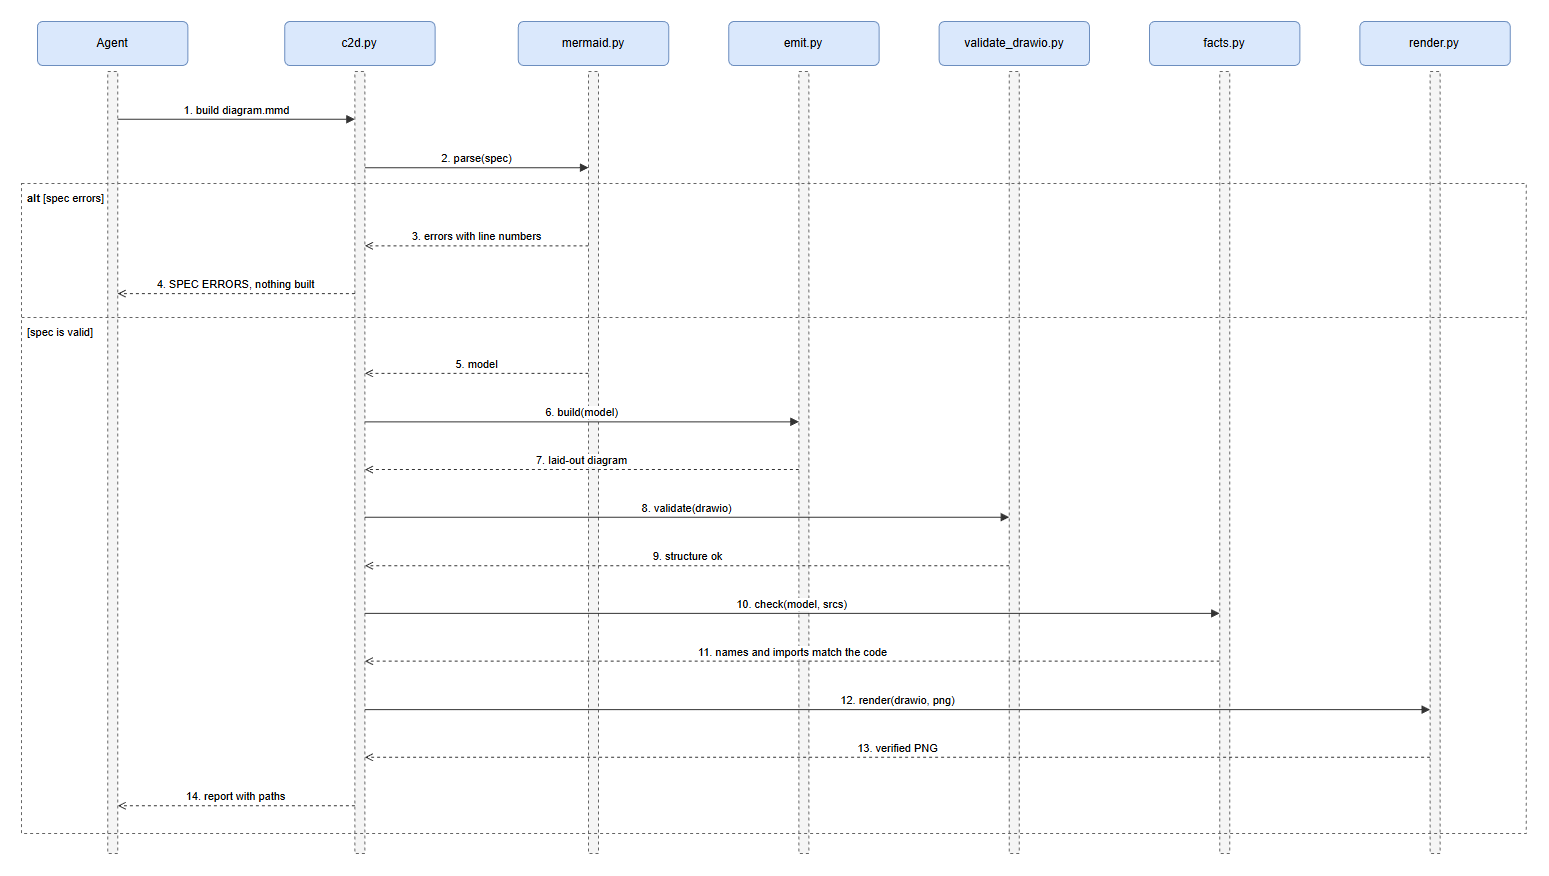
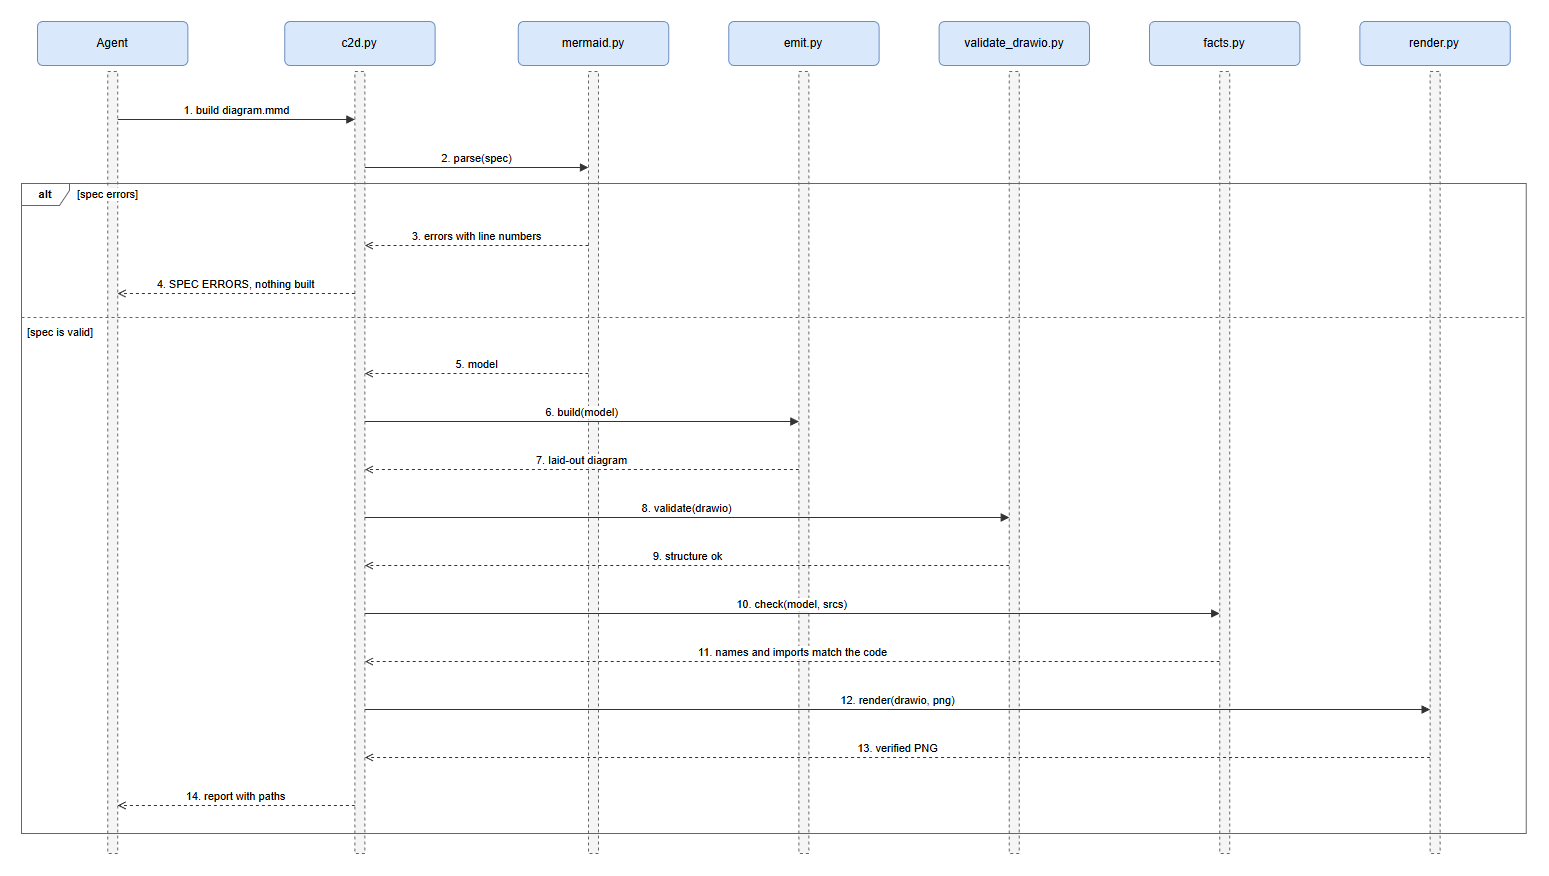
feat(sequence): group each header with its lifeline, draw fragments as umlFrame, report the layout (Fixes #15) (#30)
Sequence diagrams were hard to edit and, unlike every other type, were not
measured.

- A participant's header box and lifeline are children of one group, so
  they move together in draw.io. Messages stay glued to the lifelines.
- alt/opt/loop/par/critical/break are umlFrame shapes with the kind in the
  tab and the condition as a text beside it (it was a rectangle plus a
  text box). A highlight (rect) stays a plain dashed rectangle. The
  condition text gets a white background so a lifeline behind it does not
  strike through it.
- build prints a layout: line for sequences: texts (message labels, notes,
  frame conditions) lying on one another or on a message line, and notes
  hiding the lifeline of a participant they do not name. It reuses the
  rectangle test of labels.py and label_cost of metrics.py.
- digest skips the invisible groups, so each participant is still listed
  once.
- The shipped build-pipeline example is rebuilt, so its image shows the
  UML frame.

Not changed: messages still attach at a fraction of the lifeline height, so
inserting a message in draw.io still means moving the arrows below it.

Covered by selftest: grouping, frame shapes and tabs, the condition texts,
a clean build, a note across another lifeline, the clash counter on
synthetic rectangles, the shipped example, and the digest.

Changed region(s): [[0.0, 0.2158, 0.093, 0.2466]]

diff --git a/skills/code-to-diagram/scripts/sequence.py b/skills/code-to-diagram/scripts/sequence.py
@@ -1,22 +1,36 @@
-"""Sequence diagrams: participants with lifelines, messages in time order, notes, alt/opt/loop frames.
+"""Sequence diagrams: participants with lifelines, messages in time order, notes, alt/opt/loop/break frames.
 
-Lifelines are thin, equally tall rectangles; message k leaves and enters at the fraction (y_k - top) / height of that
-height on both ends, which keeps every arrow exactly horizontal. (shape=umlLifeline is a container with special child
-behaviour and breaks when edited, so it is not used.)
+Lifelines are thin, equally tall rectangles, grouped with their header box so that the two move together; message k
+leaves and enters at the fraction (y_k - top) / height of that height on both ends, which keeps every arrow exactly
+horizontal. (shape=umlLifeline is a container with special child behaviour and breaks when edited, so it is not used.)
+Frames are umlFrame shapes, the condition a text beside the tab. build measures the result (model.sequence_report):
+texts lying on texts or on messages, notes hiding a lifeline.
 """
 import html
 
 from drawio_lib import Diagram, Html, wrap_lines, text_width
+from labels import _overlap
+from metrics import label_cost
 
 M = 40                  # page margin
 BOX_H = 44
 TITLE_H = 40            # heading above the participants
 STEP = 48               # vertical space one message takes
 CHAR_W = 6.8            # message and note text is 11 px
+LABEL_W = 5.2           # width per character of a message label as drawn, for measuring (CHAR_W leaves room to spare)
+SLACK = 3               # two texts that overlap by less than this many px per side still read as apart
 
 
 def _text_w(text):
     return text_width(text, CHAR_W)
+
+
+def clashes(texts, lines):
+    """How many of the texts [(rect (x, y, w, h), key of the message line it belongs to or None)] lie on another text or on the
+    line of a message that is not theirs. Lines: {key: polyline}."""
+    small = [(x + SLACK, y + SLACK, w - 2 * SLACK, h - 2 * SLACK) for (x, y, w, h), _ in texts]
+    return sum(1 for i, ((_, own), r) in enumerate(zip(texts, small))
+               if any(_overlap(r, o) for j, o in enumerate(small) if j != i) or label_cost(r, own, lines, []))
 
 
 def build(model):
@@ -106,28 +120,42 @@ def build(model):
     shift = M - left_most if left_most < M else 0
     cx = [c + shift for c in cx]
 
+    texts, lines = [], {}                                          # what build measures: text rectangles, message polylines
     for i, (pid, label, actor) in enumerate(parts):
-        d.box(f"seq-hd-{pid}", label, cx[i] - box_w / 2, head_y, box_w, BOX_H, "rounded", "purple" if actor else "blue")
-        d.box(f"seq-ll-{pid}", "", cx[i] - 5, top, 10, height, "rect", "gray", style="dashed=1;")
+        g = d.group(f"seq-p-{pid}", cx[i] - box_w / 2, head_y, box_w, top + height - head_y)
+        d.box(f"seq-hd-{pid}", label, 0, 0, box_w, BOX_H, "rounded", "purple" if actor else "blue", parent=g)
+        d.box(f"seq-ll-{pid}", "", box_w / 2 - 5, top - head_y, 10, height, "rect", "gray", parent=g, style="dashed=1;")
     for k, fr in enumerate(frames):
         a, b = min(fr["span"], default=0), max(fr["span"], default=len(parts) - 1)
         inset = 12 * fr["depth"]
         x0, x1 = cx[a] - box_w / 2 - 16 + inset, cx[b] + box_w / 2 + 16 - inset
         x1 = max([x1] + [cx[i] + 40 + text_width(t, 5.2) + 40 - inset for i, t in fr["selfs"]])
         y0, y1 = ys[fr["start"]] - 4, ys[fr["end"]] + 6
-        d.box(f"seq-fr{k}", "", x0, y0, x1 - x0, y1 - y0, "rect", "white", style="dashed=1;fillColor=none;")
-        tag = Html(f"<b>{html.escape(fr['kind'])}</b>" + (f" [{html.escape(fr['text'])}]" if fr["text"] else "")) if fr["kind"] else None
-        if tag:
-            d.box(f"seq-fr{k}-tag", tag, x0 + 4, y0 + 2, min(300, x1 - x0 - 8), 22, "text", font=11)
+        if fr["kind"]:                                              # a UML fragment: the kind in the tab, the condition beside it
+            tab = text_width(fr["kind"], 8) + 24
+            d.box(f"seq-fr{k}", fr["kind"], x0, y0, x1 - x0, y1 - y0, "frame", font=11, style=f"width={tab:.0f};height=22;")
+            texts.append(((x0, y0, tab, 22), None))
+            if fr["text"]:
+                d.box(f"seq-fr{k}-tag", Html(f"[{html.escape(fr['text'])}]"), x0 + tab + 6, y0 - 2, min(300, x1 - x0 - tab - 12), 20, "text", font=11,
+                      style="labelBackgroundColor=#ffffff;")           # in line with the tab's text, and over any lifeline it crosses
+                texts.append(((x0 + tab + 6, y0 + 1, text_width(f"[{fr['text']}]", LABEL_W) + 4, 16), None))
+        else:                                                       # a highlight (`rect`), not a fragment
+            d.box(f"seq-fr{k}", "", x0, y0, x1 - x0, y1 - y0, "rect", "white", style="dashed=1;fillColor=none;")
         for j, (row_k, text) in enumerate(fr["elses"]):
             y = ys[row_k]
             d.box(f"seq-fr{k}-else{j}", "", x0, y - 4, x1 - x0, 8, "line")
             if text:
                 d.box(f"seq-fr{k}-else{j}-tag", Html(f"[{html.escape(text)}]"), x0 + 4, y + 2, min(300, x1 - x0 - 8), 22, "text", font=11)
+                texts.append(((x0 + 4, y + 4, text_width(f"[{text}]", LABEL_W) + 4, 16), None))
+    note_hits = 0
     for k, r in enumerate(rows):
         if r[0] == "note":
             x, w = _note_x(r, idx, cx, note_boxes[k])
             d.box(f"seq-note{k}", "\n".join(wrap_lines(r[3], 34)), x, ys[k], w, note_boxes[k][1], "note", "yellow", font=11)
+            texts.append(((x, ys[k], w, note_boxes[k][1]), None))
+            named = sorted(idx[p] for p in r[2])
+            named = set(range(named[0], named[-1] + 1)) if r[1] == "over" else set(named)         # a note over A,B covers what lies between
+            note_hits += any(_overlap((x, ys[k], w, note_boxes[k][1]), (cx[i] - 5, top, 10, height)) for i in range(len(parts)) if i not in named)
         elif r[0] == "msg":
             _, a, b, text, kind, cross = r
             f = (ys[k] - top) / height
@@ -139,16 +167,24 @@ def build(model):
                 d.edge(f"seq-ll-{a}", f"seq-ll-{a}", text, "flow", style.replace("verticalAlign=bottom;", "") + "edgeStyle=orthogonalEdgeStyle;",
                        exit=(1, f1), entry=(1, f2), points=[(x, ys[k] - 10), (x, ys[k] + 10)], id=f"seq-m{k}",
                        label_dx=text_width(text, 5.2) / 2 + 10)             # the label is centred on the loop: move it clear of it
+                lines[k] = [(x - 35, ys[k] - 10), (x, ys[k] - 10), (x, ys[k] + 10), (x - 35, ys[k] + 10)]
+                w_, h_ = text_width(text, LABEL_W) + 8, 14 * len(text.split("\n"))
+                texts.append(((x + text_width(text, 5.2) / 2 + 10 - w_ / 2, ys[k] - h_ / 2, w_, h_), k))
             else:
                 right = cx[idx[b]] > cx[idx[a]]
                 d.edge(f"seq-ll-{a}", f"seq-ll-{b}", text, "plain", style + "edgeStyle=none;",
                        exit=(1 if right else 0, f), entry=(0 if right else 1, f), id=f"seq-m{k}")
+                ends = (cx[idx[a]] + (5 if right else -5), cx[idx[b]] - (5 if right else -5))
+                lines[k] = [(ends[0], ys[k]), (ends[1], ys[k])]
+                w_, h_ = text_width(text, LABEL_W) + 8, 14 * len(text.split("\n"))                  # the label sits on the line, centred
+                texts.append((((ends[0] + ends[1]) / 2 - w_ / 2, ys[k] - 4 - h_, w_, h_), k))
     notes_right = [sum(_note_x(r, idx, cx, note_boxes[k])) for k, r in enumerate(rows) if r[0] == "note"]
     right_edge = max([cx[-1] + box_w / 2] + notes_right)
     self_room = max([cx[idx[r[1]]] + 40 + _text_w(r[3]) for r in rows if r[0] == "msg" and r[1] == r[2]], default=0)
     d.width, d.height = max(right_edge, self_room) + M, top + height + M
     if model.title:
         d.title(model.title, M, M)
+    model.sequence_report = dict(clashes=clashes(texts, lines), note_hits=note_hits, messages=n, frames=len(frames))
     return d, (d.width, d.height)
 
 

diff --git a/skills/code-to-diagram/scripts/selftest.py b/skills/code-to-diagram/scripts/selftest.py
@@ -25,6 +25,7 @@ import mermaid  # noqa: E402
 import metrics  # noqa: E402
 import routing  # noqa: E402
 from validate_drawio import validate  # noqa: E402
+import sequence  # noqa: E402
 
 SAMPLES = {
     "flow": """flowchart TD
@@ -446,6 +447,67 @@ def decision_vertices(tmp):
     return problems
 
 
+def sequence_editing(tmp):
+    """A sequence diagram stays editable and measured: each header is grouped with its lifeline, alt/opt/loop/break are umlFrame
+    shapes with the guard beside the tab, and the build reports a layout (a note hiding another lifeline is a defect it names)."""
+    problems = []
+    spec = ("sequenceDiagram\n  participant A as Client\n  participant B as Server\n  A->>B: ping\n  break ping fails\n    B-->>A: error\n  end\n"
+            "  alt cached\n    B->>B: look up\n  else miss\n    B-->>A: 404\n  end\n  loop every 5 s\n    A->>B: poll\n  end\n")
+    (mmd,) = tree(tmp, {"seq/s.mmd": spec})
+    text, _ = build_output(mmd)
+    root = ET.parse(os.path.join(tmp, "seq", "s.drawio")).getroot()
+    cells = {c.get("id"): c for c in root.iter("mxCell")}
+    for pid in "AB":
+        head, life = cells[f"seq-hd-{pid}"], cells[f"seq-ll-{pid}"]
+        group = cells.get(head.get("parent"))
+        if head.get("parent") != life.get("parent") or group is None or group.get("style") != "group":
+            problems.append(f"participant {pid}: the header and the lifeline are not children of one group")
+        elif head.get("parent") in ("0", "1"):
+            problems.append(f"participant {pid}: the group is the page itself")
+    frames = {c.get("value"): c.get("style") for c in cells.values() if "umlFrame" in c.get("style", "")}
+    if sorted(frames) != ["alt", "break", "loop"] or not all(re.search(r"width=\d+;height=\d+;", s) for s in frames.values()):
+        problems.append(f"fragments are not umlFrame shapes with a tab: {frames}")
+    guards = sorted(c.get("value", "") for k, c in cells.items() if k.startswith("seq-fr") and "umlFrame" not in c.get("style", "") and "[" in c.get("value", ""))
+    if len(guards) != 4 or not any("ping fails" in g for g in guards) or any(re.search(r"\b(alt|break|loop)\b", g) for g in guards):
+        problems.append(f"the guards are not texts of their own beside the tabs: {guards}")
+    if "structure: ok (0 errors, 0 warnings)" not in text:
+        problems.append(f"the grouped diagram does not validate: {re.search(r'^structure:.*$', text, re.M)}")
+    layout = re.search(r"^layout: (.*)$", text, re.M)
+    if not layout or "no overlaps" not in layout.group(1):
+        problems.append(f"a clean sequence diagram: the build prints {layout.group(0) if layout else None!r}")
+    out = io.StringIO()
+    with contextlib.redirect_stdout(out):                                      # `digest` lists what a hand-made file shows: every participant once
+        digest_drawio.main(os.path.join(tmp, "seq", "s.drawio"))
+    shapes = [l for l in out.getvalue().split("EDGES")[0].splitlines() if l.startswith("- ")]
+    if sorted(shapes) != sorted(["- [box] Client", "- [box] Server", "- [box] alt", "- [box] break", "- [box] loop",
+                                 "- [text] [ping fails]", "- [text] [cached]", "- [text] [miss]", "- [text] [every 5 s]"]):
+        problems.append(f"digest of the sequence diagram lists {shapes}")
+    messy = spec + "  Note right of A: a note long enough to run across the lifeline of the server next to it and hide it\n"
+    (mmd,) = tree(tmp, {"messy/m.mmd": messy})
+    text, _ = build_output(mmd)
+    layout = re.search(r"^layout: (.*)$", text, re.M)
+    if not layout or "no overlaps" in layout.group(1) or "lifeline" not in layout.group(1):
+        problems.append(f"a note over another lifeline: the build prints {layout.group(0) if layout else None!r}")
+    text_box = lambda x, y, own=None: ((x, y, 60, 14), own)
+    line = {7: [(0, 20), (200, 20)]}
+    for what, texts, lines, want in (("two texts side by side", [text_box(0, 0), text_box(100, 0)], {}, 0),
+                                     ("two texts on top of each other", [text_box(0, 0), text_box(30, 4)], {}, 2),
+                                     ("a text touching another by 2 px", [text_box(0, 0), text_box(58, 0)], {}, 0),
+                                     ("a text on the line of another message", [text_box(20, 12)], line, 1),
+                                     ("a text on its own message's line", [text_box(20, 12, 7)], line, 0)):
+        got = sequence.clashes(texts, lines)
+        if got != want:
+            problems.append(f"{what}: {got} clashes, expected {want}")
+    example = os.path.join(os.path.dirname(os.path.abspath(__file__)), "..", "..", "..", "examples", "build-pipeline", "build-pipeline.mmd")
+    if os.path.exists(example):
+        model = mermaid.parse(c2d.read_spec(example))
+        emit.build(model)
+        report = getattr(model, "sequence_report", None)
+        if not report or report["clashes"] or report["note_hits"]:
+            problems.append(f"examples/build-pipeline: {report}")
+    return problems
+
+
 def sequence_title_legend(tmp):
     """`title` and `%% legend:` are drawn for sequence diagrams too, and a flowchart title keeps its edges glued."""
     problems = []
@@ -727,6 +789,7 @@ REGRESSIONS = [
     ("layout: decision exits in line across a diamond are counted", inline_exits),
     ("layout: edges attach to a decision at its vertices, arrivals apart from departures", decision_vertices),
     ("layout: edges sharing a decision's vertex fan out from it without counting as drawn on top of each other", vertex_fans),
+    ("sequence: header and lifeline grouped, fragments are umlFrame shapes, layout measured", sequence_editing),
     ("title and legend drawn for every diagram type", sequence_title_legend),
     ("legend: fills without an entry reported, arrow styles accepted as entries", legend_checks),
     ("build: aspect ratio and fill reported, a hint for a long strip", canvas_proportions),

diff --git a/skills/code-to-diagram/scripts/drawio_lib.py b/skills/code-to-diagram/scripts/drawio_lib.py
@@ -38,6 +38,7 @@ SHAPES = {
     "end": "ellipse;shape=endState;html=1;fillColor=#000000;strokeColor=#000000;",
     "fork": "rounded=0;html=1;fillColor=#000000;strokeColor=#000000;",
     "line": "line;strokeWidth=1;dashed=1;html=1;fillColor=none;strokeColor=#666666;",
+    "frame": "shape=umlFrame;whiteSpace=wrap;html=1;pointerEvents=0;fontStyle=1;fillColor=none;strokeColor=#666666;",   # UML fragment: its label sits in the tab (style width/height)
 }
 EDGE_BASE = "edgeStyle=orthogonalEdgeStyle;rounded=0;html=1;strokeColor=#333333;fontSize=11;labelBackgroundColor=#ffffff;"
 EDGES = {
@@ -162,8 +163,13 @@ class Diagram:
     # -- shapes ------------------------------------------------------------------------------------------------
     def box(self, id, label, x, y, w=160, h=60, shape="rounded", color="blue", parent="1", fill=None, stroke=None, font=12, style=""):
         f, s = _colors(color, fill, stroke)
-        look = "" if shape in ("text", "start", "end", "fork", "line") else f"fillColor={f};strokeColor={s};"
+        look = "" if shape in ("text", "start", "end", "fork", "line", "frame") else f"fillColor={f};strokeColor={s};"
         self._cell(id, label_text(label), f"{SHAPES[shape]}{look}fontSize={font};{style}", "vertex", parent, dict(x=x, y=y, width=w, height=h))
+        return id
+
+    def group(self, id, x, y, w, h, parent="1"):
+        """Invisible group: children (parent=<this id>, coordinates relative to it) move together in draw.io. Edges are glued to the children."""
+        self._cell(id, "", "group", "vertex", parent, dict(x=x, y=y, width=w, height=h)).set("connectable", "0")
         return id
 
     def title(self, text, x, y):

diff --git a/skills/code-to-diagram/scripts/c2d.py b/skills/code-to-diagram/scripts/c2d.py
@@ -160,6 +160,11 @@ def cmd_build(argv):
               + f"; {lr['bends']} bends in {ne} edges")
         if lr["node_hits"] or lr["title_hits"] or lr["crossings"] > 12 or lr["label_conflicts"] > 2 or lr["jogs"] > 3 or lr["detour"] > 2 or lr["bends"] > 3 * max(ne, 1):
             print("  dense: shorten labels, drop edges to nodes everything uses, group nodes in subgraphs, or split the diagram")
+    if model.kind == "sequence":
+        sr = model.sequence_report
+        found = [f"{sr['clashes']} text(s) lie on another text or on a message line (shorten them)" if sr["clashes"] else "",
+                 f"{sr['note_hits']} note(s) cover the lifeline of a participant they do not name (shorten the note, or put it over the participants)" if sr["note_hits"] else ""]
+        print("layout: sequence; " + (", ".join(f for f in found if f) or "no overlaps") + f"; {sr['messages']} messages, {sr['frames']} frames")
     for line in cap([f"  {m}" for m in errors + warnings]):
         print(line)
     note = legend_note(model)

diff --git a/skills/code-to-diagram/scripts/digest_drawio.py b/skills/code-to-diagram/scripts/digest_drawio.py
@@ -124,6 +124,8 @@ def main(path):
 
     print("\nSHAPES (containers list their rows)")
     for cid in verts:
+        if "group" in style_of(cells[cid][1]):                          # an invisible group only holds shapes that are listed themselves
+            continue
         if parent[cid] in cells and cells[parent[cid]][1].get("vertex") == "1":
             # a child: shown under its container below, unless the container itself has no label (then list it here)
             if label.get(parent[cid]):

diff --git a/skills/code-to-diagram/SKILL.md b/skills/code-to-diagram/SKILL.md
@@ -21,6 +21,7 @@ You write a short Mermaid spec. One command lays it out, writes the `.drawio` (e
    - `SPEC ERRORS` lists unsupported or malformed lines (nothing is built): fix them, rebuild.
    - `structure` warnings: fix the real ones.
    - `legend: node fills with no legend entry`: nodes are drawn in a colour the `%% legend:` does not explain (decisions are yellow and plain nodes blue unless classed): add an entry for each colour, or give those nodes the colour of an entry. Only checked when the legend has colour entries; start, end and note shapes are exempt.
+   - `layout: sequence;` a sequence diagram is measured too: texts (message labels, notes, frame conditions) lying on one another or on a message line, and notes that hide the lifeline of a participant they do not name (shorten the text, or put the note over the participants). Each header is grouped with its lifeline, and `alt`/`opt`/`loop`/`break` are UML frames (`umlFrame`) with the condition beside the tab.
    - `names ... NOT FOUND in source`: a label does not exist in the `%% src:` files; misspelled or invented? Check and correct (a deliberate pseudo-name is fine).
    - `imports: N solid arrows ... have NO import behind them`: those arrows claim an import that the code does not contain; fix them or draw them dashed.
    - `names: note - N files not read`: binary or very large files were skipped; every other file is searched, whatever its extension.

diff --git a/README.md b/README.md
@@ -135,7 +135,7 @@ sequenceDiagram
 | **Class diagram** (UML) | `classDiagram` | Types, interfaces, members, inheritance, composition |
 | **ER diagram** | `erDiagram` | Database schemas, tables, keys, relationships |
 | **State diagram** | `stateDiagram-v2` | State machines, lifecycles, game or UI states |
-| **Sequence diagram** | `sequenceDiagram` | Call order between components, protocols, request / response flows |
+| **Sequence diagram** | `sequenceDiagram` | Call order between components, protocols, request / response flows. Each header is grouped with its lifeline, `alt` / `opt` / `loop` / `break` are UML frames, and the build measures overlaps |
 | **Import / dependency graph** | scanned by `c2d.py deps` | Module structure of a JS / TS / Python codebase, hubs and leaves |
 
 Nodes, edges, subgraphs, colour classes, legends and notes are supported. The full list of what the Mermaid subset
